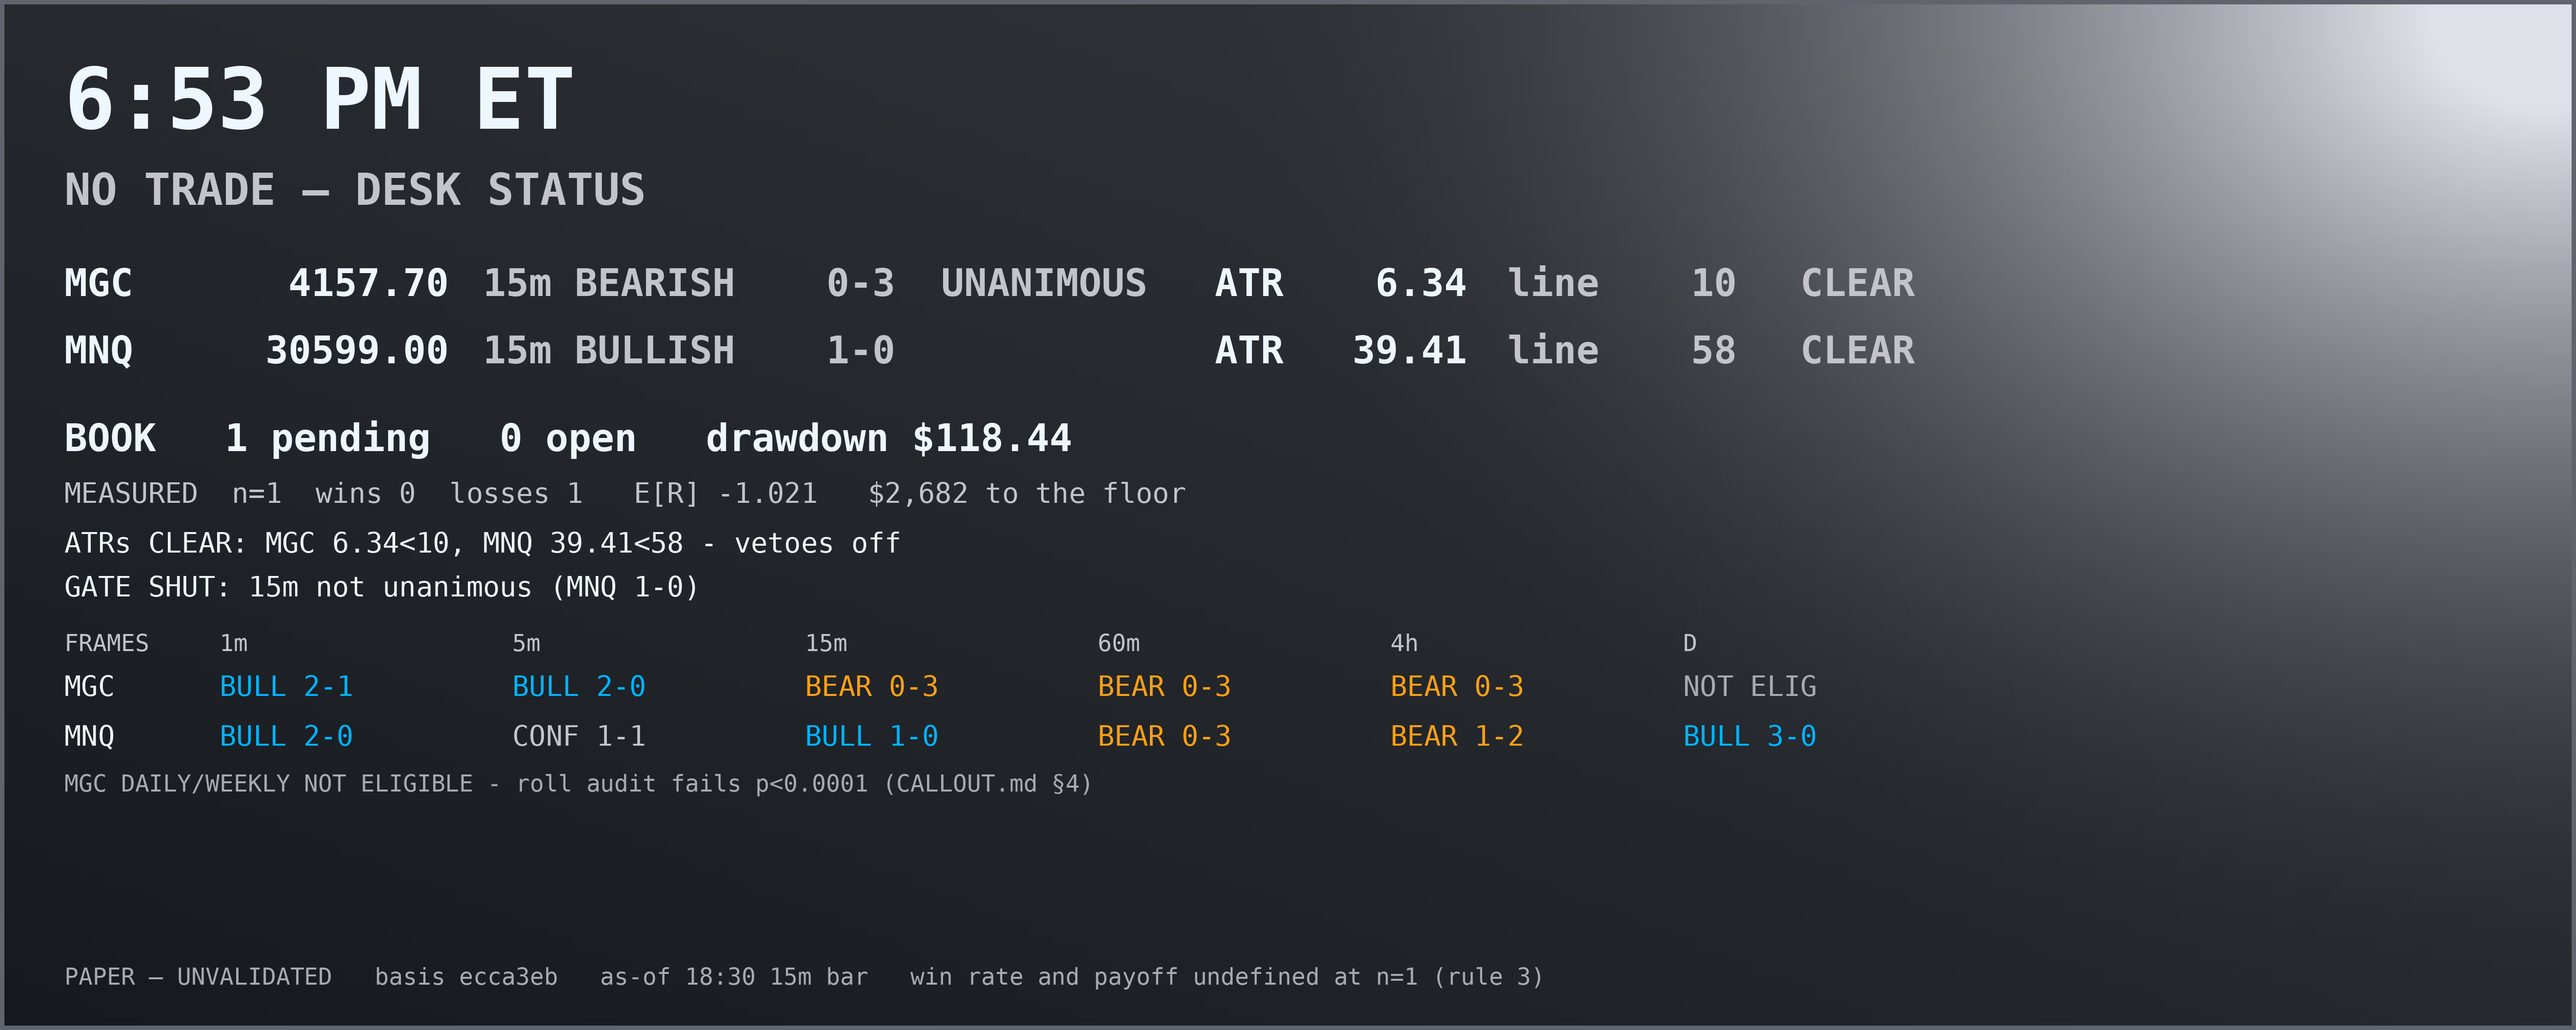
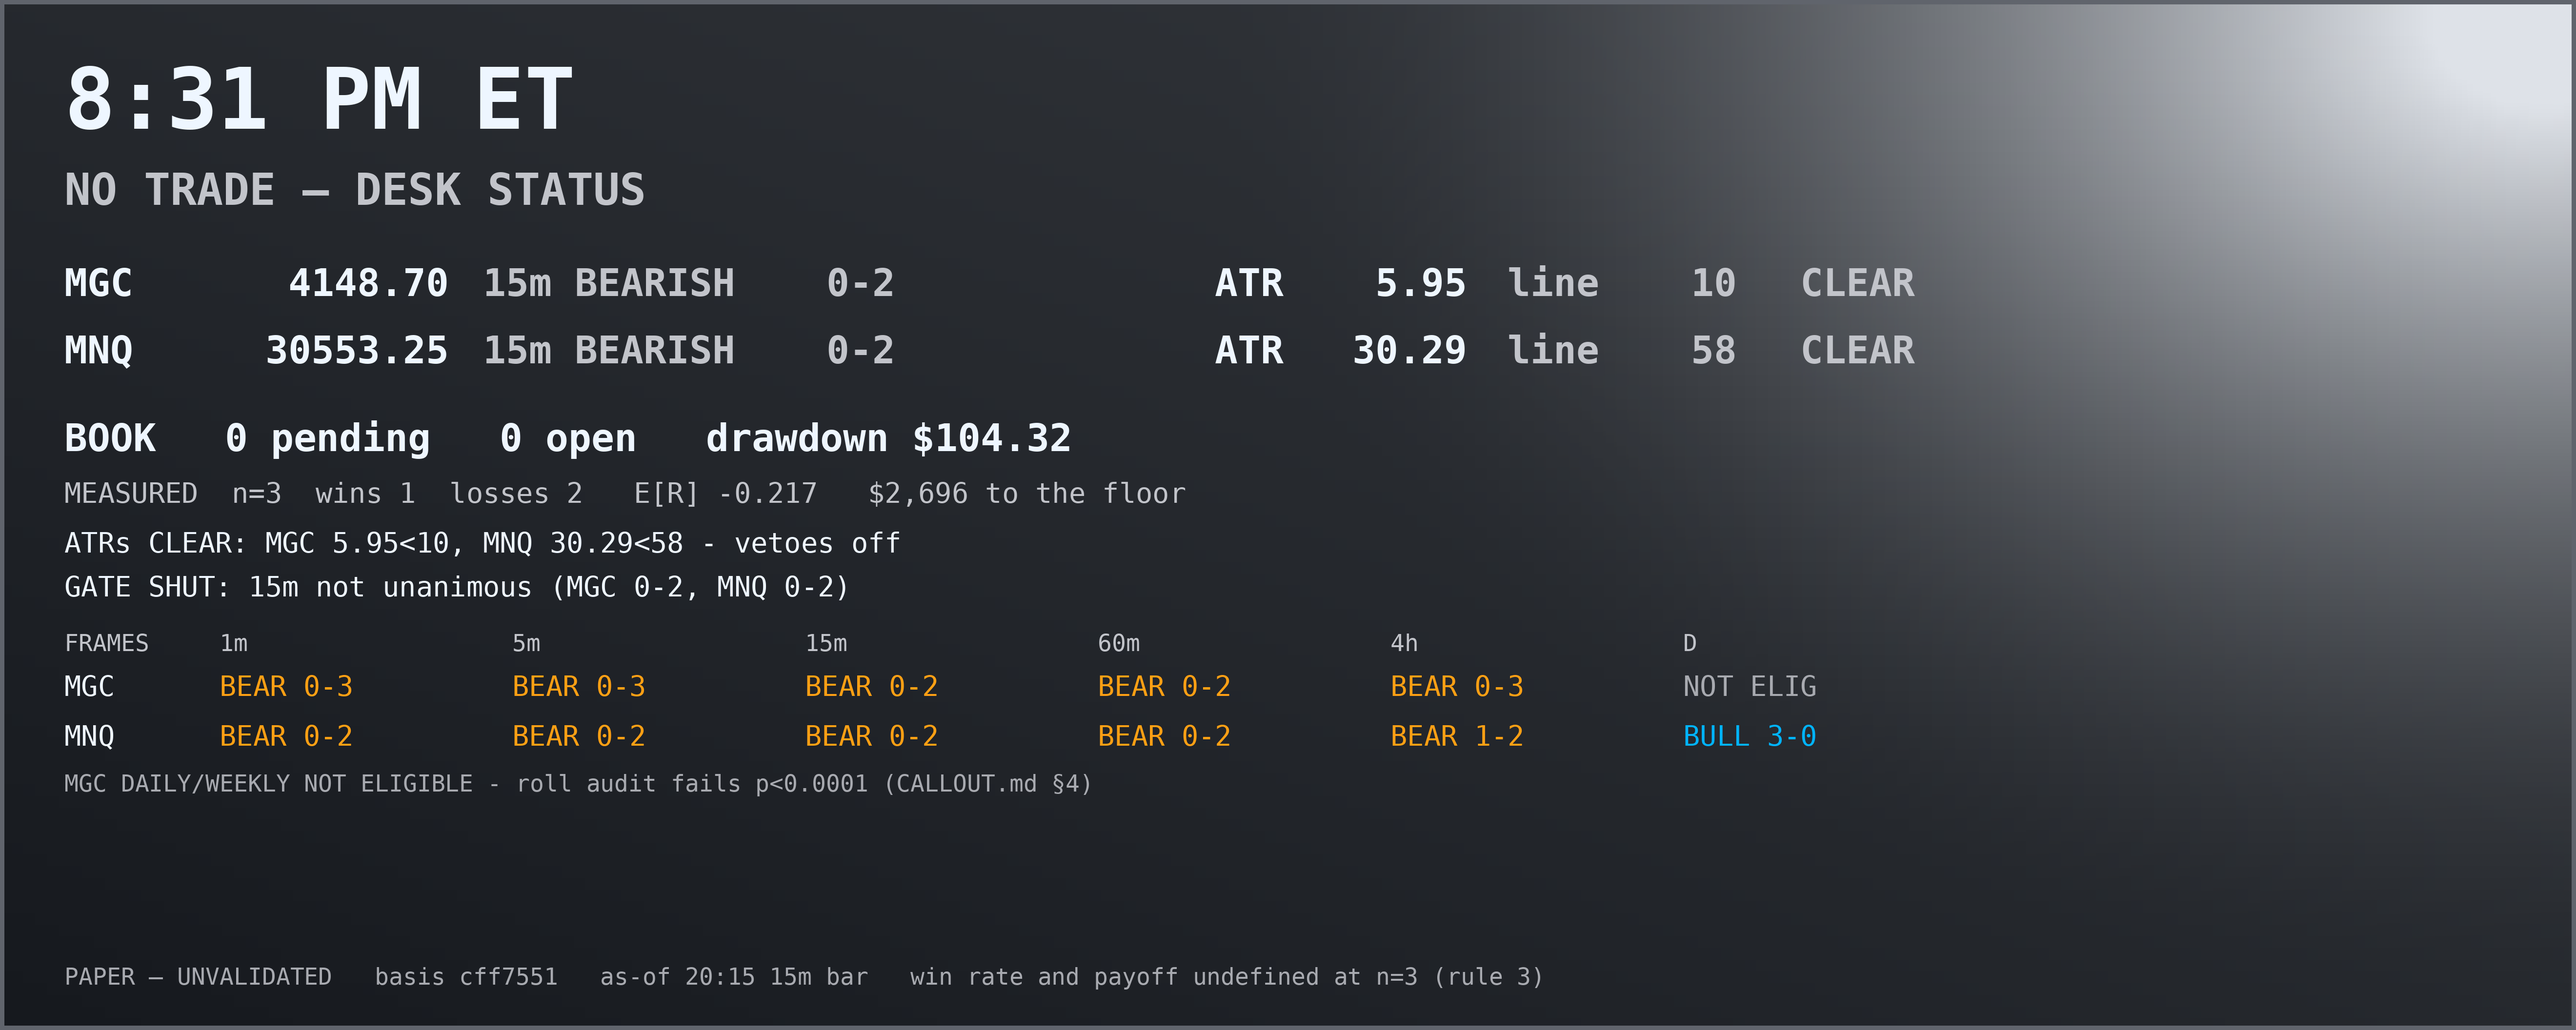
CALL desk: 20:30 - CALL-0008 STOPPED, -$48.44 (-1.053R), HEAT 1.43 MFE +0.83R; book flat, record n=3 at 33% win rate with 1.35 payoff and -0.217R expectancy. Both losers now show MFE above +0.8R, pointing at the exit
Claude-Session: https://claude.ai/code/session_01EE6PFk7fGa2tM4KP6dpfWD

diff --git a/workspace/paper/CALL/DECISIONS.md b/workspace/paper/CALL/DECISIONS.md
@@ -67,6 +67,7 @@ the second is how a veto flatters itself and quoting only the first is how a tra
 | 25 | 19:36 | **CALL-0007 FILLED — first fill since CALL-0006.** MGC SHORT @ 4159.00, entry bar 15m `19:15`, stop 4163.40, TP1 4152.40, 1 contract, $44 at risk. `resolve.py` wrote it, not me | **it filled on a gate that had already lapsed.** I flagged that exact risk at 19:00 and again at 19:16 and declined to kill the plan for it; the risk has now materialised, and the trade is live on a condition that stopped holding 20 minutes before entry | the alternative was a post-hoc void rule invented mid-flight, which the 19:02 revision artifact proved would have killed a plan on a number that came straight back. N8 held and the cost of N8 holding is this fill | **the fill was detected 21 minutes after its entry bar** — the blind spot, exactly as N214 measures it. Position is already 1.10 points against me (−$11 unrealized, not realized); the 15m `19:15` bar high of 4161.40 came within 1.40 of the 4163.40 stop without hitting it |
 | 26 | 20:00 | **CALL-0008 FILLED — the book is now two positions, opposite directions.** MNQ LONG @ 30588.00, entry bar 15m `19:45`, stop 30565.00, $46. Written by `resolve.py`, which refused to call it at 19:56 when I could already see the 5m low through the limit, and confirmed it only when its own 15m bar settled | **$90 live across two trades and they are not offsetting** — MGC short +0.80R, MNQ long −0.54R, book +$10 unrealized. If both stop out that is −$90, and the 1m frame is unanimously bearish on both symbols right now | the gate called both, both vetoes were clear at both registrations, and both entries were pullback limits rather than the prohibited breakout. The desk did what it was built to do | **the long filled into a selloff.** Buying a higher low that then broke is the ordinary failure of a pullback entry, and MNQ is 10.50 from its stop. Its 15m has already decayed from 3-0 unanimous to 1-0 |
 | 27 | 20:21 | **CALL-0007 CLOSED A WIN — TP1 4152.40, +$62.56, +1.422R.** First countable winner. Equity $50,100.68, drawdown cut from $118.44 to **$55.88**. Measured record now n=2: **50% win rate with a 1.39 payoff**, expectancy **+0.201R** | — | the trade that looked worst at 19:40 (−0.50R, stop 2.20 away) and whose gate had lapsed before entry is the one that paid. Not editing it under pressure is what produced this, and that is the transferable part, not the $62 | **HEAT 0.61** — it used 61% of its stop, 1.70pt spare at the worst. Below the 0.70 line, so the 4.40pt stop was adequate rather than lucky. MFE +1.66R against a 1.5R target: it went slightly past TP1 before filling, so nothing was left behind |
+| 28 | 20:30 | **CALL-0008 STOPPED OUT — −$48.44, −1.053R.** MNQ LONG died at 30565.00. Book is flat, equity $50,052.24, drawdown $104.32. Measured record n=3: **1 win 2 losses, 33% win rate with a 1.35 payoff**, expectancy **−0.217R** | the long was the wrong side of an evening that went on falling. It bought a higher low that broke, at a moment its 60m and 4h were already bearish — I registered it anyway because the 15m gate fired, and said at the time that the 60m disagreeing was weakness (4) | the gate is the desk's only entry mechanism and refusing a satisfied gate on a feeling is what N194 blamed for the morning miss. This is the cost side of that trade-off, paid | **HEAT 1.43, MFE +0.83R.** It was 83% of the way to a 1R gain before dying — that is now **two losers out of two with MFE above +0.8R**, which points at the exit, not the entry. Worth a pre-registered test of a partial at +0.8R, NOT an ad-hoc change |
 
 ### What the tally actually says
 

diff --git a/workspace/paper/CALL/LEDGER.md b/workspace/paper/CALL/LEDGER.md
@@ -5,43 +5,37 @@ has a measured edge (largest *t* 3.923 against `free_t` 5.46), so this ledger is
 record of a *process*, not evidence of one. It is generated by `resolve.py`;
 do not hand-edit it.
 
-**Regenerated:** 2026-09-29T00:21:34+00:00 · **basis:** ecc502d
+**Regenerated:** 2026-09-29T00:30:35+00:00 · **basis:** cff7551
 
 ## Account
 
 | | |
 |---|---|
 | starting equity | $50,000.00 |
-| equity | $50,100.68 |
+| equity | $50,052.24 |
 | peak equity | $50,156.56 |
-| **drawdown** | **$55.88** |
-| distance to the $2,800 absorbing state | $2,744.12 |
-| realized P&L | $+100.68 |
+| **drawdown** | **$104.32** |
+| distance to the $2,800 absorbing state | $2,695.68 |
+| realized P&L | $+52.24 |
 
 ## Record
 
 | | |
 |---|---|
-| closed trades | 3 |
+| closed trades | 4 |
 | wins | 2 |
-| losses | 1 |
-| win rate | 66.7% |
+| losses | 2 |
+| win rate | 50.0% |
 | gross won | $+219.12 |
-| gross lost | $-118.44 |
+| gross lost | $-166.88 |
 | avg win | $+109.56 |
-| avg loss | $-118.44 |
-| expectancy | +0.656R |
+| avg loss | $-83.44 |
+| expectancy | +0.229R |
 | ambiguous-bar resolutions (counted as losses) | 0 |
 
 **Rule 3 of this desk: win rate and payoff are never quoted apart.** BRIEF.md rule 3
 measured four times that moving a stop raises payoff ~89% and drops win rate ~14
 points for no expectancy gain, so either number alone is misleading.
-
-## Open positions
-
-| id | symbol | side | entry | stop | next target | lots | risk $ |
-|---|---|---|---|---|---|---|---|
-| CALL-0008 | MNQ | LONG | 30588.0 | 30565.0 | 30622.5 (TP1) | 1/1 | $46.00 |
 
 ## Closed trades
 
@@ -50,6 +44,7 @@ points for no expectancy gain, so either number alone is misleading.
 | CALL-0002 | MGC | SHORT | 4186.4 | 4196.4 | 4170.4 | TARGET TP1 | TP1 | $+156.56 | +1.566 | **WIN** |
 | CALL-0006 | MNQ | SHORT | 30560.0 | 30618.0 | 30618.0 | STOP | — | $-118.44 | -1.021 | **LOSS** |
 | CALL-0007 | MGC | SHORT | 4159.0 | 4163.4 | 4152.4 | TARGET TP1 | TP1 | $+62.56 | +1.422 | **WIN** |
+| CALL-0008 | MNQ | LONG | 30588.0 | 30565.0 | 30565.0 | STOP | — | $-48.44 | -1.053 | **LOSS** |
 
 ⚠ = one bar held both the stop and the target; OHLC cannot order them, so it
 resolved as a loss (rule 3 of `resolve.py`).
